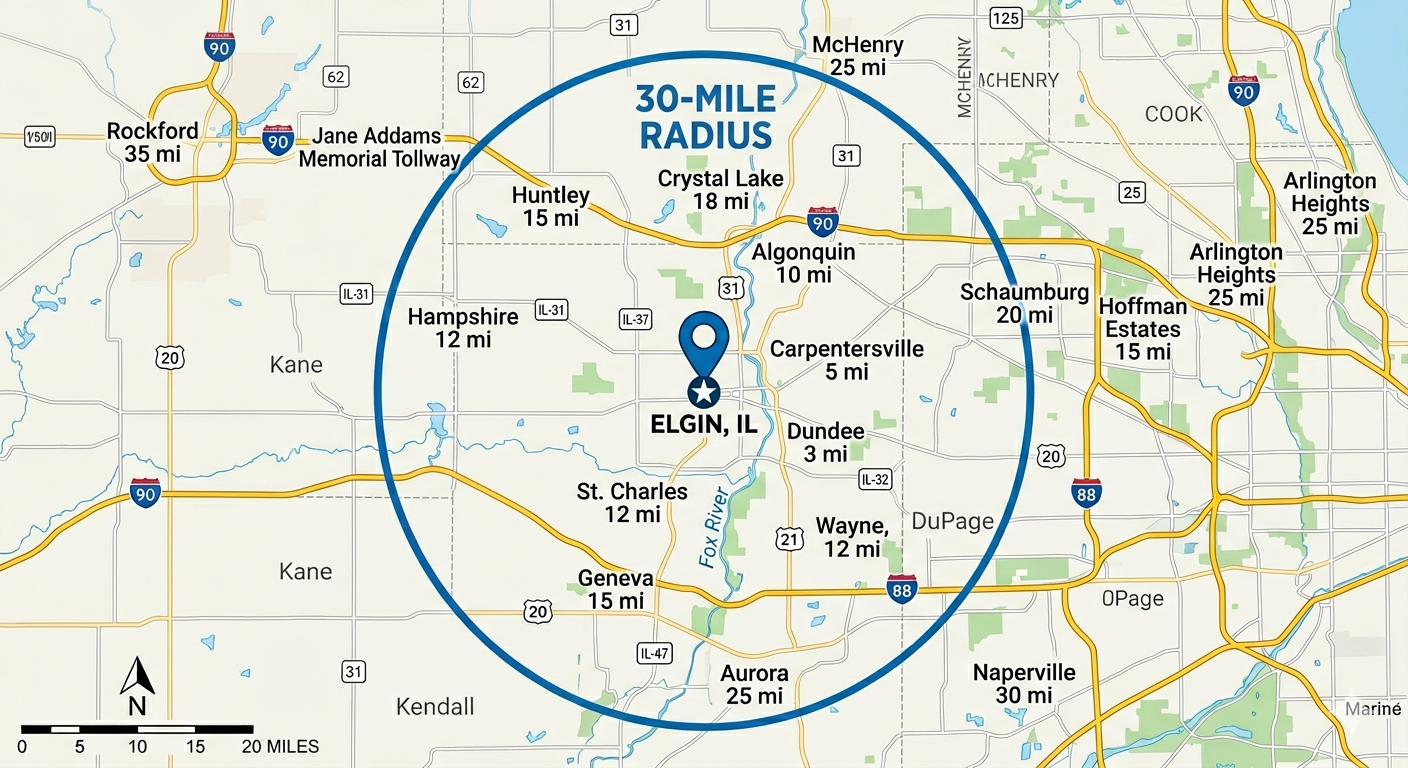
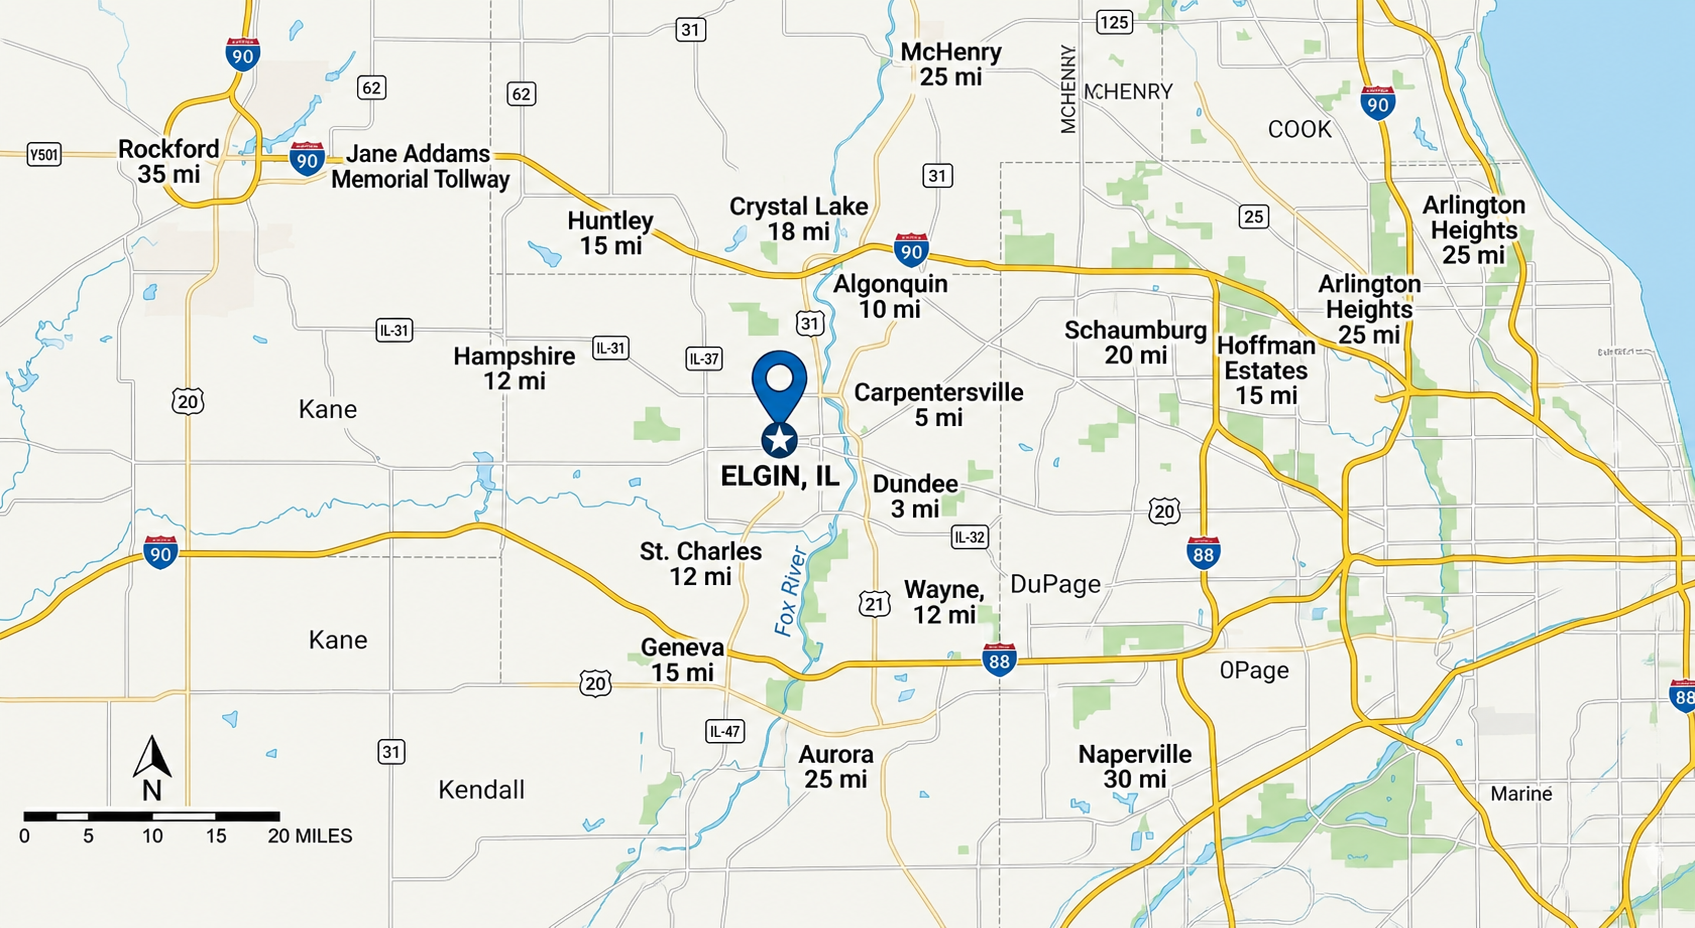
removed 30ml radius and cash

diff --git a/frontend/src/pages/Contact/Contact.jsx b/frontend/src/pages/Contact/Contact.jsx
@@ -63,11 +63,11 @@ const Contact = () => {
     // Format date for readability
     const formattedDate = pickupDate
       ? new Date(pickupDate + 'T00:00:00').toLocaleDateString('en-US', {
-          weekday: 'long',
-          year: 'numeric',
-          month: 'long',
-          day: 'numeric',
-        })
+        weekday: 'long',
+        year: 'numeric',
+        month: 'long',
+        day: 'numeric',
+      })
       : 'N/A';
 
     // Format time for readability
@@ -387,10 +387,6 @@ SPECIAL NEEDS / NOTES
                   <li className="payment-methods__item">
                     <FaCcPaypal className="payment-methods__icon payment-methods__icon--paypal" />
                     <span>PayPal</span>
-                  </li>
-                  <li className="payment-methods__item">
-                    <FaMoneyBillWave className="payment-methods__icon payment-methods__icon--cash" />
-                    <span>Cash</span>
                   </li>
                   <li className="payment-methods__item">
                     <FaFileInvoiceDollar className="payment-methods__icon payment-methods__icon--invoice" />
